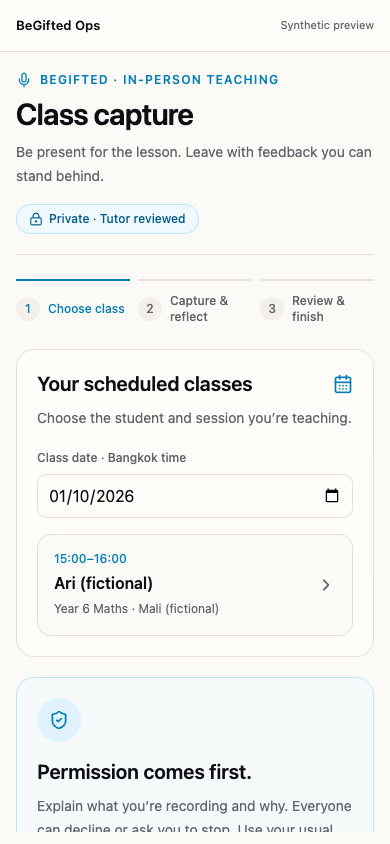
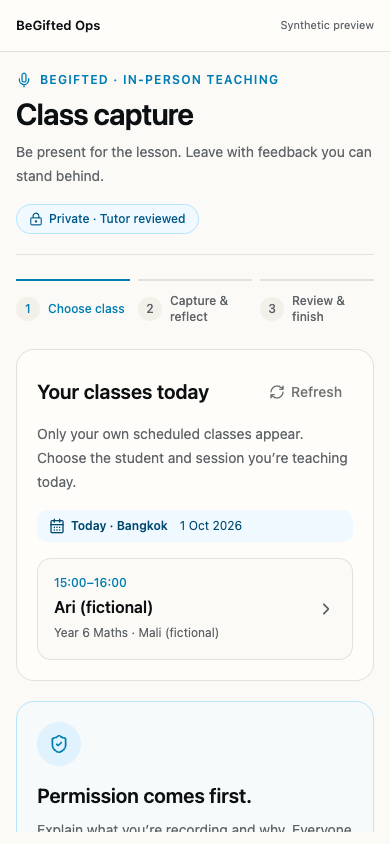
fix(class-capture): refresh own classes at Bangkok midnight

diff --git a/src/components/class-capture/class-capture-workspace.tsx b/src/components/class-capture/class-capture-workspace.tsx
@@ -11,31 +11,27 @@ import { MAX_AUDIO_BYTES, type CaptureAsset, type CaptureSession, type CaptureVi
 import { LocalRecovery, type RecoveryRecord } from "@/lib/class-capture/local-recovery";
 import { AssetCard } from "./asset-card";
 import { RecordingPanel } from "./recording-panel";
+import { bangkokDay, watchTodaySessions } from "./today-sessions";
 import { canonicalMime, captureRequest, CaptureRequestError, clearCapturePointer, DRAFT_LABELS, EMPTY_DRAFT, feedbackText, loadCapturePointer, saveCapturePointer, validateLocalFile, type CaptureAvailability, type LocalMedia } from "./client-helpers";
 
 type SessionData = { sessions: CaptureSession[]; availability: CaptureAvailability };
 const UNAVAILABLE: CaptureAvailability = { enabled: false, storage: false, transcription: false, drafting: false };
 
-function todayBangkok() {
-  const parts = new Intl.DateTimeFormat("en-CA", { timeZone: "Asia/Bangkok", year: "numeric", month: "2-digit", day: "2-digit" }).formatToParts(new Date());
-  const values = Object.fromEntries(parts.map((part) => [part.type, part.value]));
-  return `${values.year}-${values.month}-${values.day}`;
-}
-
 function sessionTime(session: CaptureSession) {
   return `${formatBangkokDateTime(session.startTime, { hour: "2-digit", minute: "2-digit" })}–${formatBangkokDateTime(session.endTime, { hour: "2-digit", minute: "2-digit" })}`;
 }
 
-export function ClassCaptureWorkspace({ ownerEmail, enabled, initialData, initialCapture, initialDate }: {
+export function ClassCaptureWorkspace({ ownerEmail, enabled, initialData, initialCapture }: {
   ownerEmail: string;
   enabled: boolean;
   initialData?: SessionData;
   initialCapture?: CaptureView;
-  initialDate?: string;
 }) {
-  const [date, setDate] = useState(initialDate ?? todayBangkok);
+  const [today, setToday] = useState(() => bangkokDay());
   const [data, setData] = useState<SessionData>(initialData ?? { sessions: [], availability: { ...UNAVAILABLE, enabled } });
   const [loading, setLoading] = useState(!initialData && enabled);
+  const [sessionError, setSessionError] = useState<string | null>(null);
+  const listRefresh = useRef<(() => void) | null>(null);
   const [selected, setSelected] = useState<CaptureSession | null>(null);
   const [capture, setCapture] = useState<CaptureView | null>(initialCapture ?? null);
   const currentCapture = useRef<CaptureView | null>(initialCapture ?? null);
@@ -100,11 +96,28 @@ export function ClassCaptureWorkspace({ ownerEmail, enabled, initialData, initia
   }
 
   useEffect(() => {
-    let cancelled = false;
-    if (!enabled || initialData) return;
-    captureRequest<SessionData>(`?date=${date}`).then((result) => { if (!cancelled) { setData(result); setLoading(false); } }).catch((problem: Error) => { if (!cancelled) { setError(problem.message); setLoading(false); } });
-    return () => { cancelled = true; };
-  }, [date, enabled, initialData]);
+    if (!enabled) return;
+    const watcher = watchTodaySessions({
+      request: () => captureRequest<SessionData>(""),
+      focus: window,
+      visibility: document,
+      onRefresh: (day) => {
+        setToday(day); setLoading(true); setSessionError(null);
+        setData((previous) => ({ ...previous, sessions: [] }));
+        if (!currentCapture.current) {
+          setSelected(null); setParticipants(false); setGuardian(""); setProcessing(false);
+          createAttempt.current = null;
+        }
+      },
+      onResult: (result) => { setData(result); setLoading(false); },
+      onError: (problem) => {
+        setSessionError(problem instanceof Error ? problem.message : "Today's classes could not be refreshed.");
+        setLoading(false);
+      },
+    });
+    listRefresh.current = watcher.refresh;
+    return () => { watcher.stop(); listRefresh.current = null; };
+  }, [enabled]);
 
   useEffect(() => {
     if (booted.current || initialCapture) return;
@@ -125,6 +138,8 @@ export function ClassCaptureWorkspace({ ownerEmail, enabled, initialData, initia
   }, []);
 
   async function createCapture() {
+    if (today !== bangkokDay()) { listRefresh.current?.(); return; }
+    if (loading || sessionError) return;
     if (!selected || !participants || !guardian || !processing || !topic.trim()) return;
     await run("Preparing capture", async () => {
       createAttempt.current ??= crypto.randomUUID();
@@ -244,12 +259,13 @@ export function ClassCaptureWorkspace({ ownerEmail, enabled, initialData, initia
         <ol aria-label="Capture progress" className="my-6 grid grid-cols-3 gap-2 sm:gap-4">{["Choose class", "Capture & reflect", "Review & finish"].map((label, index) => <li key={label} aria-current={step === index + 1 ? "step" : undefined} className={`flex items-center gap-2 border-t-2 pt-3 text-xs font-medium sm:text-sm ${step >= index + 1 ? "border-primary text-primary" : "border-border text-muted-foreground"}`}><span className={`flex size-6 shrink-0 items-center justify-center rounded-full text-xs ${step > index + 1 ? "bg-primary text-primary-foreground" : "bg-muted"}`}>{step > index + 1 ? <Check className="size-3.5" /> : index + 1}</span><span>{label}</span></li>)}</ol>
         {offline && <div role="status" className="mb-4 flex gap-2 rounded-xl border border-amber-200 bg-amber-50 p-4 text-sm text-amber-900"><WifiOff className="size-5 shrink-0" /><p>You’re offline. You can keep recording with this page open. Reconnect before uploading or saving draft edits.</p></div>}
         {error && <div role="alert" className="mb-4 rounded-xl border border-red-200 bg-red-50 p-4 text-sm leading-6 text-red-900">{error}{capture && !locked && <Button variant="ghost" className="mt-2 min-h-11" onClick={() => void run("Reloading capture", () => recoverCapture(capture.id))}><RefreshCw />Reload saved capture</Button>}</div>}
+        {sessionError && <div role="alert" className="mb-4 rounded-xl border border-amber-200 bg-amber-50 p-4 text-sm leading-6 text-amber-900"><p>Today’s classes could not be refreshed. {sessionError}</p>{capture && <p className="mt-1 text-xs">Your current capture and edits are unchanged.</p>}<Button variant="outline" className="mt-2 min-h-11" disabled={loading} onClick={() => listRefresh.current?.()}><RefreshCw />Retry today’s classes</Button></div>}
         {notice && <p role="status" className="mb-4 rounded-xl border border-sky-200 bg-sky-50 p-4 text-sm leading-6 text-sky-900 dark:bg-sky-950 dark:text-sky-100">{notice}</p>}
         {!active ? <section className="rounded-2xl border bg-card p-6 sm:p-10"><div className="mb-4 flex size-12 items-center justify-center rounded-xl bg-muted"><Mic className="size-6 text-muted-foreground" /></div><h2 className="text-xl font-semibold">Class capture is paused</h2><p className="mt-2 max-w-xl text-sm leading-6 text-muted-foreground">Recording and AI drafting are not enabled for this workspace yet. Continue writing and submitting feedback through your usual Wise class page.</p><a href="/post-class-feedback" className="mt-5 inline-flex min-h-11 items-center gap-2 text-sm font-medium text-primary">Open Class Feedback<ArrowRight className="size-4" /></a>{recoverable.length > 0 && <div className="mt-4 border-t pt-4"><p className="text-xs leading-5 text-muted-foreground">This device has saved media from an earlier capture. You can remove those local recovery copies while capture is paused.</p><Button variant="outline" className="mt-3 min-h-11" disabled={Boolean(busy)} onClick={() => void run("Removing local recovery", async () => { const store = recovery.current ??= new LocalRecovery(); for (const record of recoverable) await store.remove(ownerEmail, record.assetId); clearCapturePointer(); setRecoverable([]); setNotice("Local recovery copies removed. Cloud retention and cleanup are unchanged."); })}>Delete local recovery copies</Button></div>}</section> : <>
           {recoveryIds.length > 0 && <section className="mb-5 rounded-xl border border-amber-200 bg-amber-50/60 p-4"><h2 className="text-sm font-semibold">There’s audio to recover on this device</h2><p className="mt-1 text-xs leading-5 text-muted-foreground">Reopening checks your class access first. Local copies expire after 24 hours and may be incomplete.</p><div className="mt-3 flex flex-wrap gap-2">{recoveryIds.map((id, index) => <Button key={id} variant="outline" className="min-h-11" disabled={locked} onClick={() => void run("Recovering capture", () => recoverCapture(id))}>Recover capture {index + 1}</Button>)}<Button variant="ghost" className="min-h-11" disabled={locked} onClick={() => void run("Removing local recovery", async () => { for (const id of recoveryIds) await recovery.current?.deleteCapture(ownerEmail, id); setRecoverable([]); setNotice("Local recovery copies removed."); })}>Delete local recovery copies</Button></div></section>}
           {!capture ? <div className="grid items-start gap-5 lg:grid-cols-[minmax(0,1fr)_minmax(0,1fr)]">
-            <section className="rounded-2xl border bg-card p-5 sm:p-6"><div className="flex items-center justify-between gap-3"><h2 className="text-xl font-semibold">Your scheduled classes</h2><CalendarDays className="size-5 text-primary" /></div><p className="mt-2 text-sm leading-6 text-muted-foreground">Choose the student and session you’re teaching.</p><label className="mt-5 block text-xs font-medium text-muted-foreground" htmlFor="class-date">Class date · Bangkok time</label><Input id="class-date" type="date" value={date} className="mt-2 min-h-11 w-full text-base" disabled={locked} onChange={(event) => { setDate(event.target.value); setSelected(null); createAttempt.current = null; setLoading(!initialData); }} />
-              <div className="mt-4 space-y-2">{loading ? <p role="status" className="py-8 text-center text-sm text-muted-foreground">Loading your classes…</p> : data.sessions.length ? data.sessions.map((session) => <button key={`${session.sessionId}:${session.studentId}`} className={`flex min-h-24 w-full items-center gap-3 rounded-xl border p-4 text-left transition-colors ${selected?.sessionId === session.sessionId && selected.studentId === session.studentId ? "border-primary bg-sky-50 ring-1 ring-primary dark:bg-sky-950" : "bg-background hover:border-sky-300"}`} disabled={locked} aria-pressed={selected?.sessionId === session.sessionId && selected.studentId === session.studentId} onClick={() => { setSelected(session); createAttempt.current = null; setParticipants(false); setGuardian(""); setProcessing(false); }}><span className="min-w-0 flex-1"><span className="block text-xs font-medium text-primary">{sessionTime(session)}</span><span className="mt-1 block font-semibold">{session.studentName}</span><span className="mt-1 block break-words text-xs leading-5 text-muted-foreground">{session.title} · {session.teacherName}</span></span><ChevronRight className="size-5 shrink-0 text-muted-foreground" /></button>) : <p className="rounded-xl bg-muted/50 p-5 text-sm leading-6 text-muted-foreground">No eligible in-person classes are available for this date. Only authorized sessions with one student appear. If today’s schedule is missing, ask operations to check the schedule sync.</p>}</div>
+            <section className="rounded-2xl border bg-card p-5 sm:p-6"><div className="flex flex-wrap items-center justify-between gap-2"><h2 className="text-xl font-semibold">Your classes today</h2><Button variant="ghost" className="min-h-11" aria-label="Refresh today’s classes" disabled={loading} onClick={() => listRefresh.current?.()}><RefreshCw className={loading ? "animate-spin" : undefined} />Refresh</Button></div><p className="mt-2 text-sm leading-6 text-muted-foreground">Only your own scheduled classes appear. Choose the student and session you’re teaching today.</p><div className="mt-4 flex flex-wrap items-center gap-x-3 gap-y-1 rounded-lg bg-sky-50 px-3 py-2 text-xs text-sky-900 dark:bg-sky-950 dark:text-sky-100"><span className="inline-flex items-center gap-1.5 font-semibold"><CalendarDays className="size-4" />Today · Bangkok</span><time dateTime={today}>{formatBangkokDateTime(`${today}T12:00:00+07:00`, { day: "numeric", month: "short", year: "numeric" })}</time></div>
+              <div className="mt-4 space-y-2">{loading ? <p role="status" className="py-8 text-center text-sm text-muted-foreground">Loading your classes…</p> : data.sessions.length ? data.sessions.map((session) => <button key={`${session.sessionId}:${session.studentId}`} className={`flex min-h-24 w-full items-center gap-3 rounded-xl border p-4 text-left transition-colors ${selected?.sessionId === session.sessionId && selected.studentId === session.studentId ? "border-primary bg-sky-50 ring-1 ring-primary dark:bg-sky-950" : "bg-background hover:border-sky-300"}`} disabled={locked} aria-pressed={selected?.sessionId === session.sessionId && selected.studentId === session.studentId} onClick={() => { setSelected(session); createAttempt.current = null; setParticipants(false); setGuardian(""); setProcessing(false); }}><span className="min-w-0 flex-1"><span className="block text-xs font-medium text-primary">{sessionTime(session)}</span><span className="mt-1 block font-semibold">{session.studentName}</span><span className="mt-1 block break-words text-xs leading-5 text-muted-foreground">{session.title} · {session.teacherName}</span></span><ChevronRight className="size-5 shrink-0 text-muted-foreground" /></button>) : <p className="rounded-xl bg-muted/50 p-5 text-sm leading-6 text-muted-foreground">No eligible in-person classes are scheduled for you today. Only your own sessions with one student appear. If today’s schedule is missing, ask operations to check the schedule sync.</p>}</div>
             </section>
             <section className="rounded-2xl border border-sky-200 bg-sky-50/40 p-5 sm:p-6"><div className="mb-4 flex size-11 items-center justify-center rounded-full bg-sky-100 text-primary"><ShieldCheck className="size-5" /></div><h2 className="text-xl font-semibold">Permission comes first.</h2><p className="mt-2 text-sm leading-6 text-muted-foreground">Explain what you’re recording and why. Everyone can decline or ask you to stop. Use your usual notes if anyone is uncomfortable.</p>
               <label htmlFor="lesson-topic" className="mt-5 block text-sm font-medium">Today’s lesson topic</label><Input id="lesson-topic" value={topic} maxLength={500} disabled={locked} onChange={(event) => setTopic(event.target.value)} placeholder="e.g. Equivalent fractions" className="mt-2 min-h-11 bg-background text-base" />
@@ -257,7 +273,7 @@ export function ClassCaptureWorkspace({ ownerEmail, enabled, initialData, initia
               <label htmlFor="guardian-consent" className="mt-4 block text-sm font-medium">Guardian permission</label><select id="guardian-consent" value={guardian} disabled={locked} onChange={(event) => setGuardian(event.target.value as typeof guardian)} className="mt-2 min-h-11 w-full rounded-lg border bg-background px-3 text-base"><option value="">Select the applicable confirmation</option><option value="confirmed">Required guardian permission is confirmed</option><option value="not_required">All participants are adults; guardian permission is not required</option></select>
               <label className="mt-5 flex min-h-11 cursor-pointer items-start gap-3 text-sm leading-6"><input type="checkbox" checked={processing} disabled={locked} onChange={(event) => setProcessing(event.target.checked)} className="mt-1 size-5 shrink-0 accent-sky-700" /><span>I have permission to use private Vercel Blob storage, Soniox transcription and the OpenRouter drafting model for this class’s evidence.</span></label>
               <p className="mt-4 text-xs leading-5 text-muted-foreground">Cloud captures expire after 24 hours. You can delete them earlier. Copies downloaded to your device need to be deleted separately.</p>
-              <Button className="mt-5 min-h-12 w-full text-base" disabled={locked || offline || !selected || !topic.trim() || !participants || !guardian || !processing} onClick={() => void createCapture()}>{busy ? <Loader2 className="animate-spin" /> : <ArrowRight />}Prepare class capture</Button>
+              <Button className="mt-5 min-h-12 w-full text-base" disabled={locked || loading || Boolean(sessionError) || offline || !selected || !topic.trim() || !participants || !guardian || !processing} onClick={() => void createCapture()}>{busy ? <Loader2 className="animate-spin" /> : <ArrowRight />}Prepare class capture</Button>
             </section>
           </div> : <>
             <section className="mb-5 flex flex-wrap items-center justify-between gap-4 rounded-xl border bg-card p-4 sm:px-5"><div className="min-w-0"><p className="text-xs font-medium text-primary">{formatBangkokDateTime(capture.session.startTime, { day: "numeric", month: "short" })} · {sessionTime(capture.session)} · Bangkok</p><h2 className="mt-1 text-lg font-semibold">{capture.session.studentName}<span className="ml-2 text-sm font-normal text-muted-foreground">{capture.session.title}</span></h2><p className="mt-1 text-xs text-muted-foreground">{capture.session.teacherName} · Consent confirmed</p></div><span className="inline-flex items-center gap-1.5 rounded-full bg-amber-50 px-3 py-1.5 text-xs font-medium text-amber-800"><span className="size-1.5 rounded-full bg-amber-500" />{savedReview ? "Reviewed draft" : "Draft only"}</span></section>

diff --git a/src/components/class-capture/__tests__/today-sessions.test.ts b/src/components/class-capture/__tests__/today-sessions.test.ts
@@ -1,0 +1,99 @@
+import { afterEach, describe, expect, it, vi } from "vitest";
+import { bangkokDay, watchTodaySessions } from "../today-sessions";
+
+function deferred<T>() {
+  let resolve!: (value: T) => void;
+  let reject!: (error: Error) => void;
+  const promise = new Promise<T>((done, fail) => { resolve = done; reject = fail; });
+  return { promise, resolve, reject };
+}
+
+function setup(request: () => Promise<string>) {
+  const focus = new EventTarget();
+  const visibility = Object.assign(new EventTarget(), { visibilityState: "visible" });
+  const onRefresh = vi.fn();
+  const onResult = vi.fn();
+  const onError = vi.fn();
+  const watch = watchTodaySessions({ request, onRefresh, onResult, onError, focus, visibility });
+  return { ...watch, focus, visibility, onRefresh, onResult, onError };
+}
+
+afterEach(() => vi.useRealTimers());
+
+describe("today's class list refresh", () => {
+  it("refreshes at Bangkok midnight and sends no client date to its request", async () => {
+    vi.useFakeTimers();
+    vi.setSystemTime(new Date("2026-10-01T16:59:59Z"));
+    const request = vi.fn(async () => "synthetic own classes");
+    const watch = setup(request);
+    await vi.advanceTimersByTimeAsync(1_001);
+    expect(bangkokDay(Date.now())).toBe("2026-10-02");
+    expect(watch.onRefresh.mock.calls.map(([day]) => day)).toEqual(["2026-10-01", "2026-10-02"]);
+    expect(request.mock.calls).toEqual([[], []]);
+    watch.stop();
+  });
+
+  it("refreshes on focus and visible return after suspended timers", async () => {
+    vi.useFakeTimers();
+    vi.setSystemTime(new Date("2026-10-01T16:00:00Z"));
+    const request = vi.fn(async () => "synthetic classes");
+    const watch = setup(request);
+    vi.setSystemTime(new Date("2026-10-02T02:00:00Z"));
+    watch.visibility.visibilityState = "hidden";
+    watch.visibility.dispatchEvent(new Event("visibilitychange"));
+    expect(request).toHaveBeenCalledTimes(1);
+    watch.visibility.visibilityState = "visible";
+    watch.visibility.dispatchEvent(new Event("visibilitychange"));
+    watch.focus.dispatchEvent(new Event("focus"));
+    expect(request).toHaveBeenCalledTimes(3);
+    expect(watch.onRefresh).toHaveBeenLastCalledWith("2026-10-02");
+    watch.stop();
+  });
+
+  it("ignores older responses and older errors after a newer refresh", async () => {
+    vi.useFakeTimers();
+    vi.setSystemTime(new Date("2026-10-01T10:00:00Z"));
+    const old = deferred<string>();
+    const current = deferred<string>();
+    const request = vi.fn().mockReturnValueOnce(old.promise).mockReturnValueOnce(current.promise);
+    const watch = setup(request);
+    watch.refresh();
+    current.resolve("current classes");
+    await Promise.resolve();
+    old.reject(new Error("obsolete failure"));
+    await Promise.resolve();
+    expect(watch.onResult).toHaveBeenCalledExactlyOnceWith("current classes", "2026-10-01");
+    expect(watch.onError).not.toHaveBeenCalled();
+    watch.stop();
+  });
+
+  it("rejects a yesterday response even when the midnight timer did not run", async () => {
+    vi.useFakeTimers();
+    vi.setSystemTime(new Date("2026-10-01T16:59:59Z"));
+    const old = deferred<string>();
+    const request = vi.fn().mockReturnValueOnce(old.promise).mockResolvedValueOnce("today");
+    const watch = setup(request);
+    vi.setSystemTime(new Date("2026-10-01T17:00:01Z"));
+    old.resolve("yesterday");
+    await vi.advanceTimersByTimeAsync(0);
+    expect(watch.onResult).toHaveBeenCalledExactlyOnceWith("today", "2026-10-02");
+    watch.stop();
+  });
+
+  it("reports a current failure and retries, then ignores completion after unmount", async () => {
+    vi.useFakeTimers();
+    const pending = deferred<string>();
+    const request = vi.fn().mockRejectedValueOnce(new Error("offline")).mockReturnValueOnce(pending.promise);
+    const watch = setup(request);
+    await Promise.resolve();
+    expect(watch.onError).toHaveBeenCalledOnce();
+    watch.refresh();
+    watch.stop();
+    pending.resolve("too late");
+    await Promise.resolve();
+    watch.focus.dispatchEvent(new Event("focus"));
+    await vi.advanceTimersByTimeAsync(2 * 24 * 60 * 60 * 1_000);
+    expect(request).toHaveBeenCalledTimes(2);
+    expect(watch.onResult).not.toHaveBeenCalled();
+  });
+});

diff --git a/src/components/class-capture/__tests__/class-capture-workspace.test.tsx b/src/components/class-capture/__tests__/class-capture-workspace.test.tsx
@@ -12,15 +12,23 @@ const capture: CaptureView = {
 const initialData = { sessions: [capture.session], availability: { enabled: true, storage: true, transcription: true, drafting: true } };
 
 describe("Class Capture consent and review", () => {
+  it("shows only today's own classes with a static Bangkok label and no date picker", () => {
+    const html = renderToStaticMarkup(<ClassCaptureWorkspace ownerEmail="synthetic@example.test" enabled initialData={initialData} />);
+    expect(html).toContain("Your classes today");
+    expect(html).toContain("Today · Bangkok");
+    expect(html).not.toContain('type="date"');
+    expect(html).toContain("Only your own scheduled classes appear");
+  });
+
   it("shows a clear pause and the existing feedback path when disabled", () => {
-    const html = renderToStaticMarkup(<ClassCaptureWorkspace ownerEmail="synthetic@example.test" enabled={false} initialDate="2026-10-01" />);
+    const html = renderToStaticMarkup(<ClassCaptureWorkspace ownerEmail="synthetic@example.test" enabled={false} />);
     expect(html).toContain("Class capture is paused");
     expect(html).toContain('href="/post-class-feedback"');
     expect(html).not.toContain("Start class recording");
   });
 
   it("requires participant, guardian and processing confirmation before preparation", () => {
-    const html = renderToStaticMarkup(<ClassCaptureWorkspace ownerEmail="synthetic@example.test" enabled initialData={initialData} initialDate="2026-10-01" />);
+    const html = renderToStaticMarkup(<ClassCaptureWorkspace ownerEmail="synthetic@example.test" enabled initialData={initialData} />);
     expect(html).toContain("Permission comes first.");
     expect(html).toContain("Guardian permission");
     expect(html).toContain("private Vercel Blob storage, Soniox transcription and the OpenRouter drafting model");
@@ -30,7 +38,7 @@ describe("Class Capture consent and review", () => {
   });
 
   it("clearly separates tutor evidence and drafts from submission", () => {
-    const html = renderToStaticMarkup(<ClassCaptureWorkspace ownerEmail="synthetic@example.test" enabled initialData={initialData} initialCapture={capture} initialDate="2026-10-01" />);
+    const html = renderToStaticMarkup(<ClassCaptureWorkspace ownerEmail="synthetic@example.test" enabled initialData={initialData} initialCapture={capture} />);
     expect(html).toContain("separate from the transcript");
     expect(html).toContain("understanding cannot be inferred from audio");
     expect(html).toContain("Background recording is not supported");
@@ -40,7 +48,7 @@ describe("Class Capture consent and review", () => {
   });
 
   it("provides a Wise handoff only for the saved reviewed draft", () => {
-    const html = renderToStaticMarkup(<ClassCaptureWorkspace ownerEmail="synthetic@example.test" enabled initialData={initialData} initialCapture={{ ...capture, reviewed: true }} initialDate="2026-10-01" />);
+    const html = renderToStaticMarkup(<ClassCaptureWorkspace ownerEmail="synthetic@example.test" enabled initialData={initialData} initialCapture={{ ...capture, reviewed: true }} />);
     expect(html).toContain('href="https://wiseapp.live/synthetic-class"');
     expect(html).toContain("Reviewed · not submitted");
     expect(html).toContain("Copy reviewed feedback");

diff --git a/src/components/class-capture/today-sessions.ts b/src/components/class-capture/today-sessions.ts
@@ -1,0 +1,61 @@
+const DAY_MS = 24 * 60 * 60 * 1_000;
+const BANGKOK_OFFSET_MS = 7 * 60 * 60 * 1_000;
+
+/** Bangkok has no daylight-saving transition. This is only a refresh clock; the server chooses the actual day. */
+export function bangkokDay(now = Date.now()): string {
+  return new Date(now + BANGKOK_OFFSET_MS).toISOString().slice(0, 10);
+}
+
+/** Watches the list only. Capture, media, consent and draft state remain owned by the caller. */
+export function watchTodaySessions<T>(options: {
+  request: () => Promise<T>;
+  onRefresh: (day: string) => void;
+  onResult: (value: T, day: string) => void;
+  onError: (error: unknown) => void;
+  focus: EventTarget;
+  visibility: EventTarget & { readonly visibilityState: string };
+  now?: () => number;
+}): { refresh: () => void; stop: () => void } {
+  const now = options.now ?? (() => Date.now());
+  let generation = 0;
+  let stopped = false;
+  let timer: ReturnType<typeof setTimeout> | undefined;
+
+  function refresh() {
+    if (stopped) return;
+    const requestGeneration = ++generation;
+    const day = bangkokDay(now());
+    if (timer) clearTimeout(timer);
+    const nextMidnight = Date.parse(`${day}T00:00:00+07:00`) + DAY_MS;
+    timer = setTimeout(refresh, Math.max(1, nextMidnight - now()));
+    options.onRefresh(day);
+    void (async () => {
+      try {
+        const value = await options.request();
+        if (stopped || requestGeneration !== generation) return;
+        // Suspended timers must not let a response from yesterday restore yesterday's choices.
+        if (bangkokDay(now()) !== day) { refresh(); return; }
+        options.onResult(value, day);
+      } catch (error) {
+        if (stopped || requestGeneration !== generation) return;
+        if (bangkokDay(now()) !== day) { refresh(); return; }
+        options.onError(error);
+      }
+    })();
+  }
+
+  const visible = () => { if (options.visibility.visibilityState === "visible") refresh(); };
+  options.focus.addEventListener("focus", visible);
+  options.visibility.addEventListener("visibilitychange", visible);
+  refresh();
+  return {
+    refresh,
+    stop: () => {
+      stopped = true;
+      ++generation;
+      if (timer) clearTimeout(timer);
+      options.focus.removeEventListener("focus", visible);
+      options.visibility.removeEventListener("visibilitychange", visible);
+    },
+  };
+}

diff --git a/docs/assets/class-capture/README.md b/docs/assets/class-capture/README.md
@@ -10,7 +10,8 @@ and uses headless Chrome. The harness substitutes the microphone and Blob upload
 client and blocks requests outside that localhost origin. It is not an application
 route, production fixture, login bypass, or live-provider test.
 
-- `mobile-select-class.png`: scheduled session selection.
+- `mobile-select-class.png`: today's own scheduled classes, with a static Bangkok date.
+- `mobile-today-rollover.png`: the next Bangkok day's list and cleared pending consent.
 - `mobile-consent.png`: participant, guardian, and named-provider attestations.
 - `mobile-recording.png`: visible recording and the persistent Stop control.
 - `mobile-review.png`: editable draft and the tutor’s review responsibility.
@@ -19,12 +20,18 @@ route, production fixture, login bypass, or live-provider test.
 - `mobile-paused.png`: default-off behavior.
 - `acceptance-results.json`: outcomes and synthetic request counts.
 
-The checks exercise permission denial, cancellation of a delayed permission
+The 17 passing synthetic checks exercise permission denial, cancellation of a delayed permission
 response, stopping on background, real IndexedDB recovery across reload, account
 isolation, upload interruption/cancellation/retry with one asset intent, explicit
 transcription, worksheet permission, draft regeneration, uncertain-provider
 evidence removal, and saved-review gating. Touch controls are checked at 44 px or
 larger and the mobile document is checked for horizontal overflow.
+
+Controlled-clock checks cover Bangkok midnight, focus and visible return after
+suspended timers, stale list responses, and a retryable schedule refresh failure.
+They verify that pending session selection and consent are cleared while an active
+recording, local media, unsaved notes, draft edits, and review acknowledgement survive
+list refreshes. Listing requests contain no client-controlled date parameter.
 
 Unverified: real iOS/Android microphone and lockscreen behavior; browser or OS
 termination during a chunk write; live private Blob uploads and multipart behavior;
